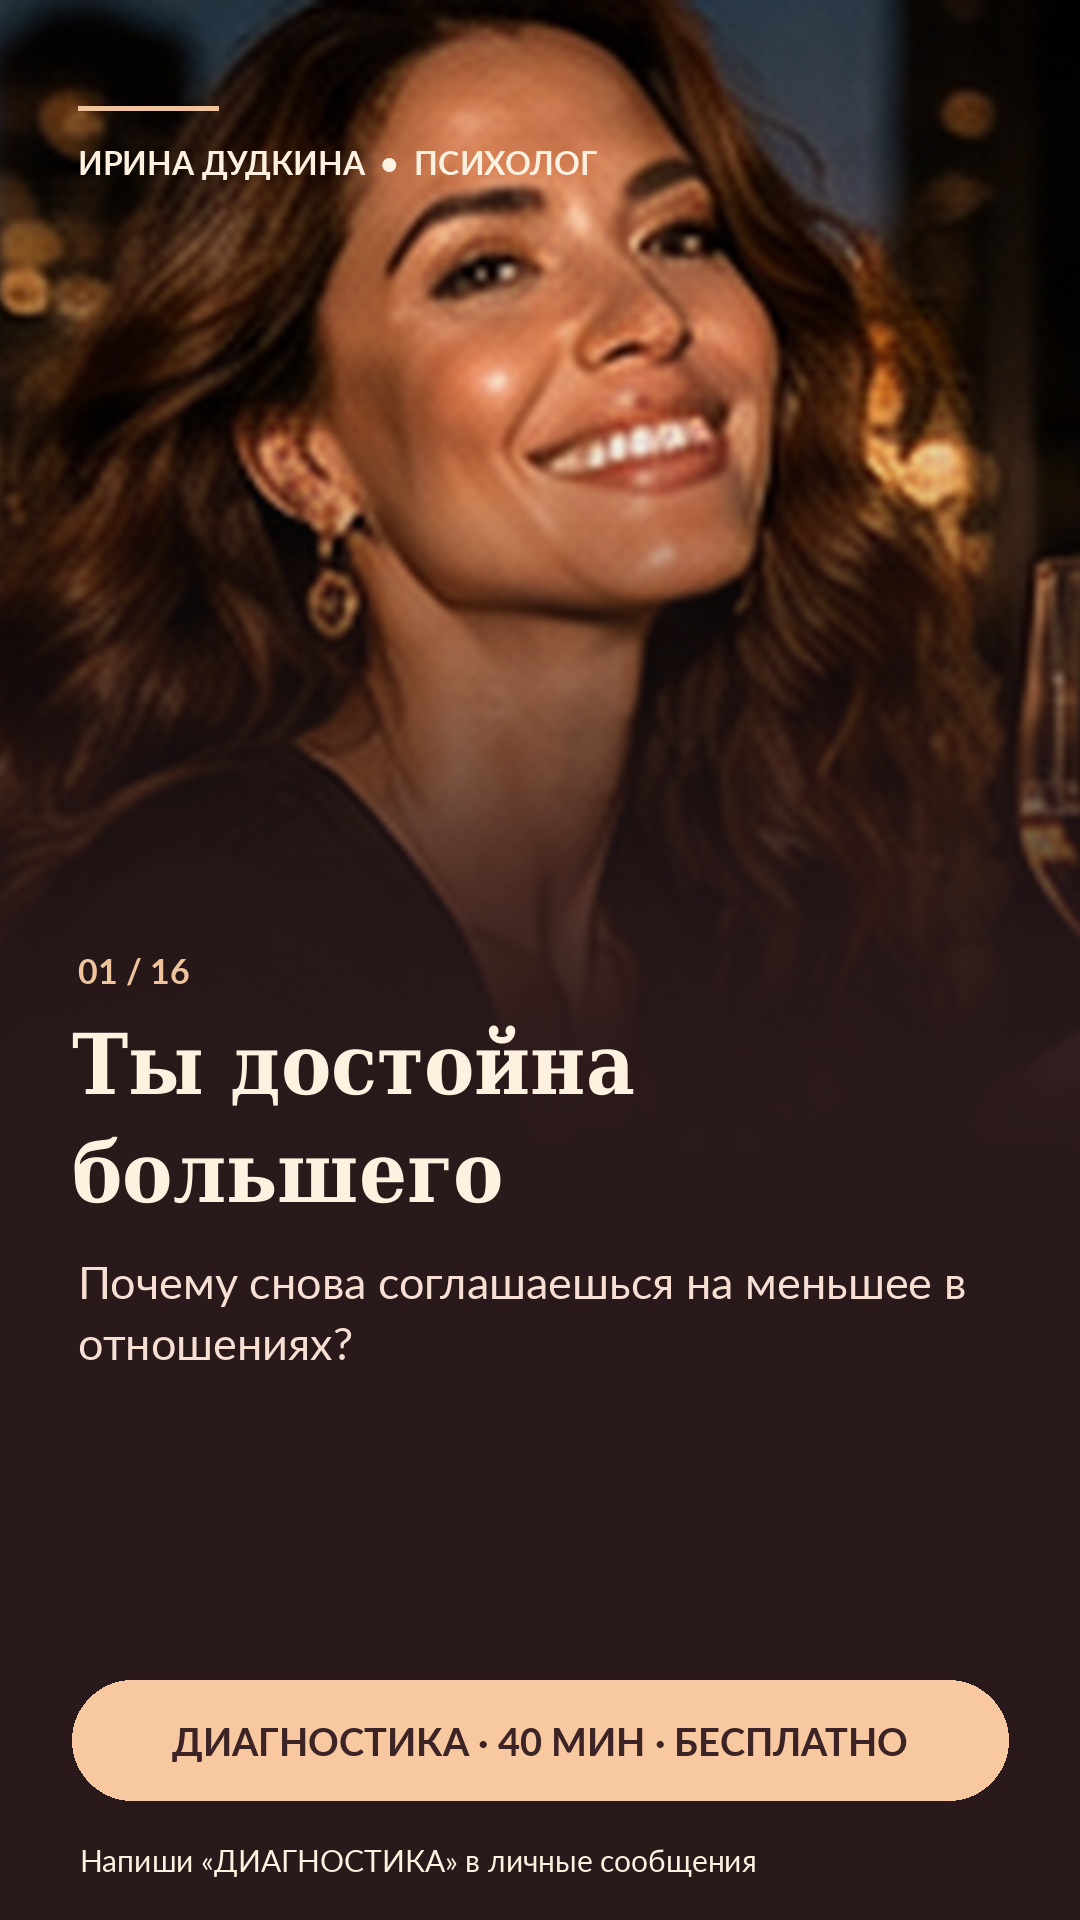
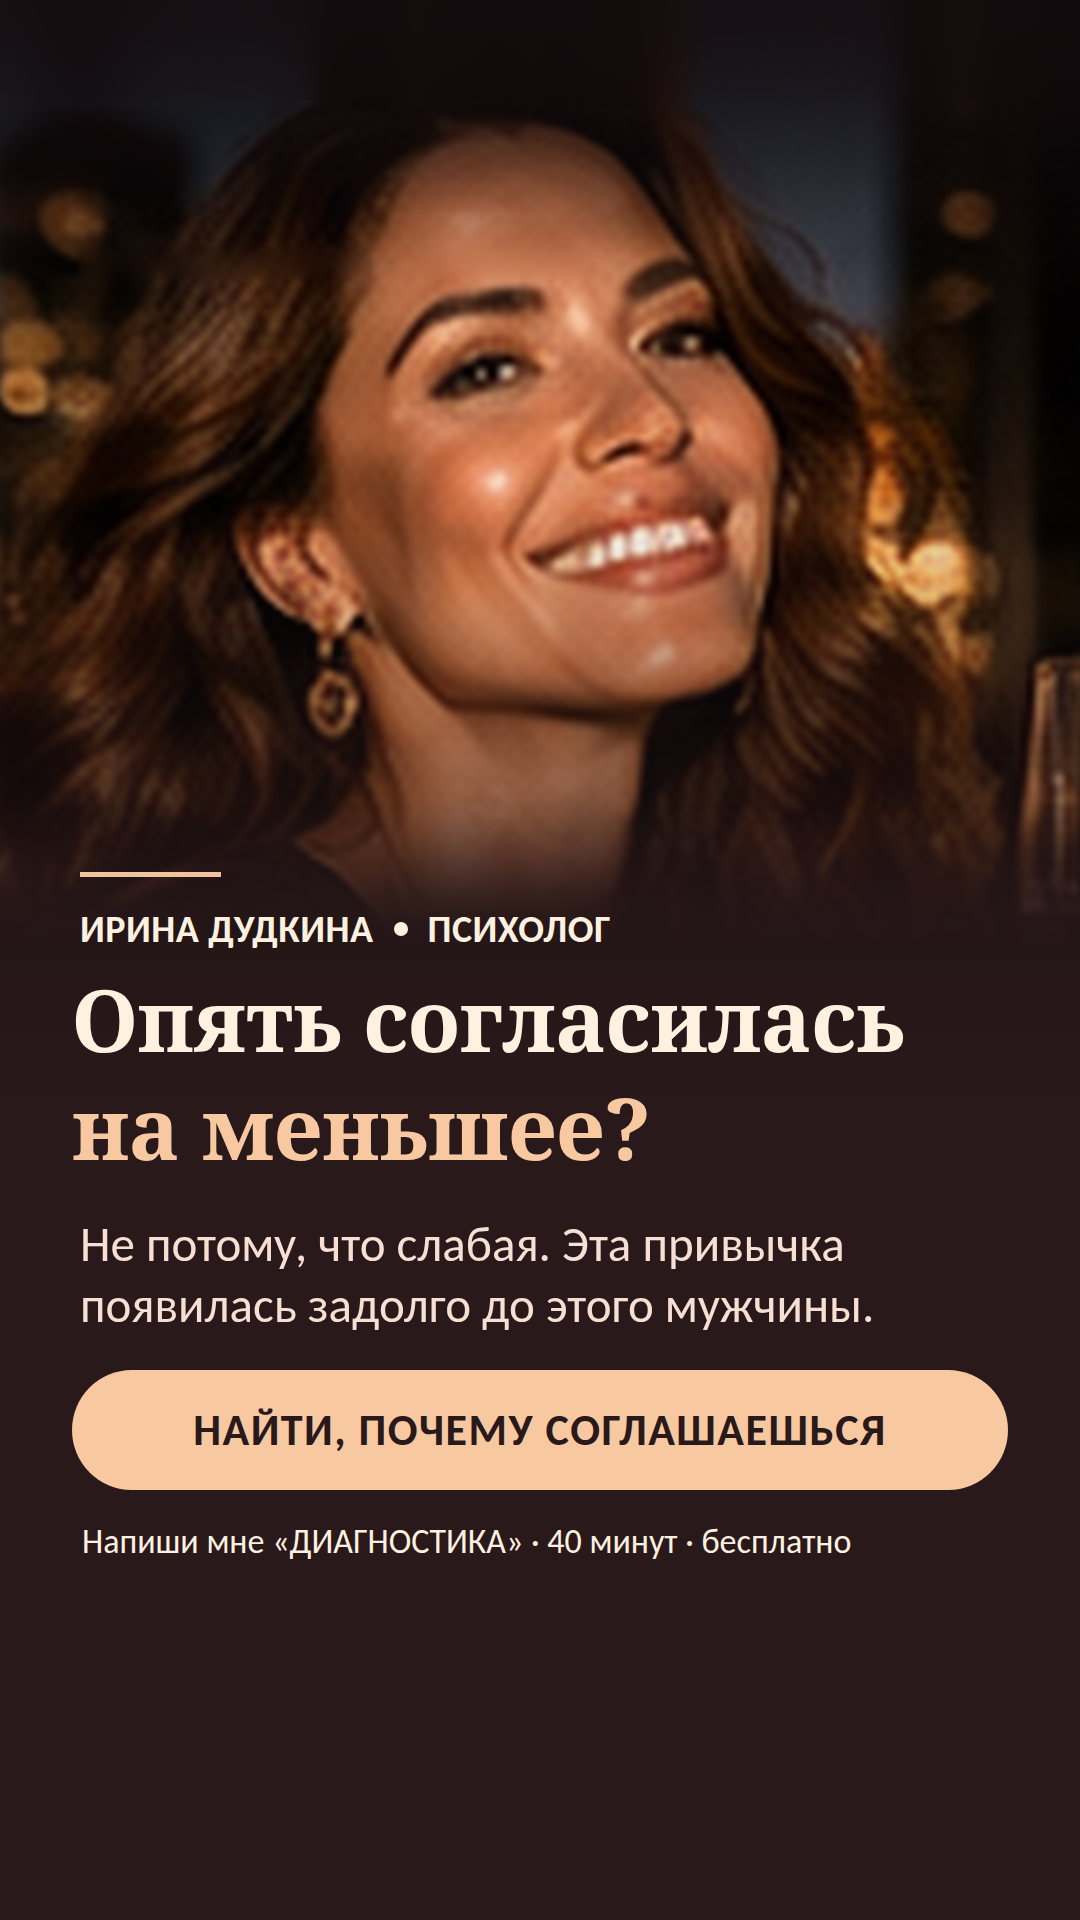
Сторис 495: карточка 01 — новый текст, подпись над заголовком, фото ниже
Роме не нужно передавать задачу GPT-боту: карточка заменена прямо на странице.
Старая подпись «ИРИНА ДУДКИНА • ПСИХОЛОГ» убрана с фото и стоит над заголовком,
фото опущено на 100 px, текст из «Тексты для карточек сторис». В галерее
обновлены хеш картинки, подпись и манифест (sha256, blob, размер).

Claude-Session: https://claude.ai/code/session_01EKeGyzNa55RqxsM18gNEzL

diff --git a/stories-495.html b/stories-495.html
@@ -1,5 +1,5 @@
 <!doctype html><html lang="ru"><head><meta charset="utf-8"><meta name="viewport" content="width=device-width, initial-scale=1"><meta name="robots" content="noindex,nofollow"><title>Карточки Instagram — Ирина Дудкина</title><style>
-:root{color-scheme:light}*{box-sizing:border-box}body{margin:0;background:#f6f0e8;color:#2b2525;font:16px/1.55 system-ui,-apple-system,Arial,sans-serif}header{background:linear-gradient(130deg,#34272a,#69464a);color:#fff;padding:64px max(24px,calc((100% - 1240px)/2)) 72px}.eyebrow{color:#f4cdb3;font-size:12px;font-weight:700;letter-spacing:.22em;text-transform:uppercase}h1{font:normal clamp(40px,6vw,76px)/1.06 Georgia,serif;margin:17px 0 22px}header p{max-width:750px;color:#eee0d9}main{max-width:1280px;margin:auto;padding:38px 24px 95px}.intro{display:flex;justify-content:space-between;align-items:center;gap:14px;flex-wrap:wrap;padding:0 0 22px;border-bottom:1px solid #d6c8bf;margin-bottom:30px}.intro strong{font:normal 26px Georgia,serif}.intro span{color:#716560;font-size:13px}.grid{display:grid;grid-template-columns:repeat(4,minmax(0,1fr));gap:24px}.card{background:#fff;border-radius:15px;overflow:hidden;box-shadow:0 10px 35px #523b2c12}.poster{aspect-ratio:9/16;background:#e8d0c3;position:relative;overflow:hidden}.poster img{width:100%;height:100%;display:block;object-fit:cover}.pending{display:none;position:absolute;inset:0;align-items:center;justify-content:center;text-align:center;padding:25px;color:#78675e;font-size:13px}.poster.missing .pending{display:flex}.poster.missing img{display:none}.meta{padding:18px}.number{font-size:11px;letter-spacing:.16em;color:#b27967;font-weight:700}h2{font:normal 22px/1.18 Georgia,serif;margin:7px 0}.meta p{font-size:13px;color:#756b64;margin:5px 0 17px}.meta a{display:block;border-radius:8px;padding:10px 13px;text-align:center;background:#673f48;color:white;text-decoration:none;font-size:13px;font-weight:600}.meta a:hover{background:#42272e}footer{text-align:center;padding:40px 24px;color:#857972;font-size:12px}@media(max-width:1000px){.grid{grid-template-columns:repeat(3,minmax(0,1fr))}}@media(max-width:720px){.grid{grid-template-columns:repeat(2,minmax(0,1fr));gap:12px}.meta{padding:12px}h2{font-size:17px}.meta a{font-size:12px}}@media(max-width:390px){.grid{grid-template-columns:1fr 1fr;gap:8px}.meta{padding:10px}}</style></head><body><header><div class="eyebrow">Instagram Stories · Ирина Дудкина</div><h1>Жизнь, которая<br>начинается с тебя</h1><p>16 фотокарточек для сторис: женские роли, отношения, самореализация и внутренняя опора. Яркие жизненные образы и эмоциональные заголовки — с приглашением на бесплатную диагностику, 40 минут.</p></header><main><div class="intro"><strong>Коллекция / 16 историй</strong><span>Вертикальный формат 9:16 · PNG 1080 × 1920</span></div><section class="grid"><article class="card"><div class="poster"><img loading="lazy" src="irina-story-01.png?v=0d95f8f7cb9a" alt="Ты достойна большего" onerror="this.parentElement.classList.add('missing')"><span class="pending">Изображение ожидает загрузки</span></div><div class="meta"><div class="number">01 / 16</div><h2>Ты достойна большего</h2><p>Самоценность</p><a href="irina-story-01.png?v=0d95f8f7cb9a" download="irina-story-01.png">Скачать PNG <span aria-hidden="true">↗</span></a></div></article>
+:root{color-scheme:light}*{box-sizing:border-box}body{margin:0;background:#f6f0e8;color:#2b2525;font:16px/1.55 system-ui,-apple-system,Arial,sans-serif}header{background:linear-gradient(130deg,#34272a,#69464a);color:#fff;padding:64px max(24px,calc((100% - 1240px)/2)) 72px}.eyebrow{color:#f4cdb3;font-size:12px;font-weight:700;letter-spacing:.22em;text-transform:uppercase}h1{font:normal clamp(40px,6vw,76px)/1.06 Georgia,serif;margin:17px 0 22px}header p{max-width:750px;color:#eee0d9}main{max-width:1280px;margin:auto;padding:38px 24px 95px}.intro{display:flex;justify-content:space-between;align-items:center;gap:14px;flex-wrap:wrap;padding:0 0 22px;border-bottom:1px solid #d6c8bf;margin-bottom:30px}.intro strong{font:normal 26px Georgia,serif}.intro span{color:#716560;font-size:13px}.grid{display:grid;grid-template-columns:repeat(4,minmax(0,1fr));gap:24px}.card{background:#fff;border-radius:15px;overflow:hidden;box-shadow:0 10px 35px #523b2c12}.poster{aspect-ratio:9/16;background:#e8d0c3;position:relative;overflow:hidden}.poster img{width:100%;height:100%;display:block;object-fit:cover}.pending{display:none;position:absolute;inset:0;align-items:center;justify-content:center;text-align:center;padding:25px;color:#78675e;font-size:13px}.poster.missing .pending{display:flex}.poster.missing img{display:none}.meta{padding:18px}.number{font-size:11px;letter-spacing:.16em;color:#b27967;font-weight:700}h2{font:normal 22px/1.18 Georgia,serif;margin:7px 0}.meta p{font-size:13px;color:#756b64;margin:5px 0 17px}.meta a{display:block;border-radius:8px;padding:10px 13px;text-align:center;background:#673f48;color:white;text-decoration:none;font-size:13px;font-weight:600}.meta a:hover{background:#42272e}footer{text-align:center;padding:40px 24px;color:#857972;font-size:12px}@media(max-width:1000px){.grid{grid-template-columns:repeat(3,minmax(0,1fr))}}@media(max-width:720px){.grid{grid-template-columns:repeat(2,minmax(0,1fr));gap:12px}.meta{padding:12px}h2{font-size:17px}.meta a{font-size:12px}}@media(max-width:390px){.grid{grid-template-columns:1fr 1fr;gap:8px}.meta{padding:10px}}</style></head><body><header><div class="eyebrow">Instagram Stories · Ирина Дудкина</div><h1>Жизнь, которая<br>начинается с тебя</h1><p>16 фотокарточек для сторис: женские роли, отношения, самореализация и внутренняя опора. Яркие жизненные образы и эмоциональные заголовки — с приглашением на бесплатную диагностику, 40 минут.</p></header><main><div class="intro"><strong>Коллекция / 16 историй</strong><span>Вертикальный формат 9:16 · PNG 1080 × 1920</span></div><section class="grid"><article class="card"><div class="poster"><img loading="lazy" src="irina-story-01.png?v=8303d367308e" alt="Опять согласилась на меньшее?" onerror="this.parentElement.classList.add('missing')"><span class="pending">Изображение ожидает загрузки</span></div><div class="meta"><div class="number">01 / 16</div><h2>Опять согласилась на меньшее?</h2><p>Самоценность</p><a href="irina-story-01.png?v=8303d367308e" download="irina-story-01.png">Скачать PNG <span aria-hidden="true">↗</span></a></div></article>
 <article class="card"><div class="poster"><img loading="lazy" src="irina-story-02.png?v=0d8dadcc4d91" alt="Устала быть сильной?" onerror="this.parentElement.classList.add('missing')"><span class="pending">Изображение ожидает загрузки</span></div><div class="meta"><div class="number">02 / 16</div><h2>Устала быть сильной?</h2><p>Усталость и выгорание</p><a href="irina-story-02.png?v=0d8dadcc4d91" download="irina-story-02.png">Скачать PNG <span aria-hidden="true">↗</span></a></div></article>
 <article class="card"><div class="poster"><img loading="lazy" src="irina-story-03.png?v=d58f27d6fb26" alt="А ты есть в своей жизни?" onerror="this.parentElement.classList.add('missing')"><span class="pending">Изображение ожидает загрузки</span></div><div class="meta"><div class="number">03 / 16</div><h2>А ты есть в своей жизни?</h2><p>Личные потребности</p><a href="irina-story-03.png?v=d58f27d6fb26" download="irina-story-03.png">Скачать PNG <span aria-hidden="true">↗</span></a></div></article>
 <article class="card"><div class="poster"><img loading="lazy" src="irina-story-04.png?v=0c5a9c85331c" alt="Выбирать себя — не эгоизм" onerror="this.parentElement.classList.add('missing')"><span class="pending">Изображение ожидает загрузки</span></div><div class="meta"><div class="number">04 / 16</div><h2>Выбирать себя — не эгоизм</h2><p>Внутренняя свобода</p><a href="irina-story-04.png?v=0c5a9c85331c" download="irina-story-04.png">Скачать PNG <span aria-hidden="true">↗</span></a></div></article>
